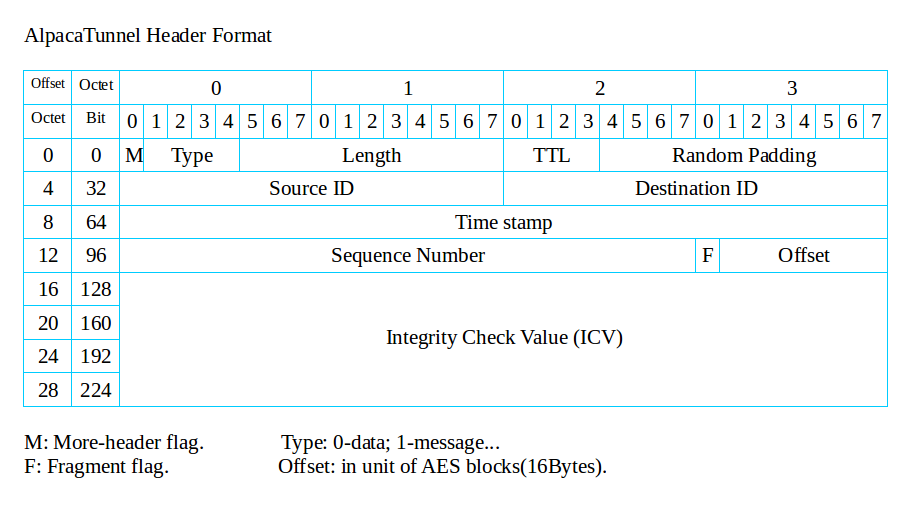
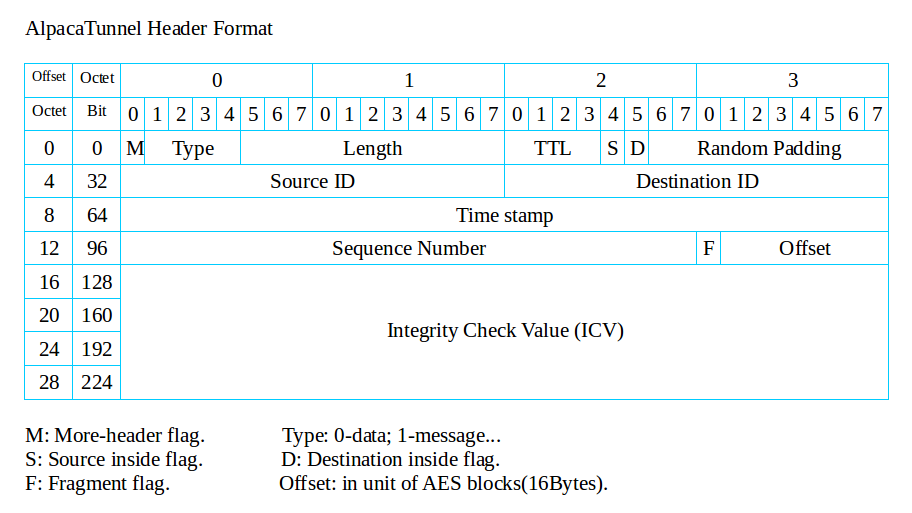
version 2.1.1, anti replay bug fix.... #LIGO!!

diff --git a/main.c b/main.c
@@ -36,7 +36,7 @@ typedef enum { false, true } bool;
 #define RELATIVE_PATH_TO_SECRETS "alpaca_tunnel.d/alpaca_secrets"
 #define PATH_LEN 1024
 #define PROCESS_NAME "AlpacaTunnel"
-#define VERSION "2.0"
+#define VERSION "2.1"
 
 #define TUN_NETMASK 0xFFFF0000
 //tunnel MTU must not be greater than 1440
@@ -65,8 +65,8 @@ typedef union
 struct ttl_flag_random_t
 {
     uint ttl:4;
-    uint src_flag:1;  //0: inside; 1: outside
-    uint dst_flag:1;  //0: inside; 1: outside
+    bool src_inside:1;
+    bool dst_inside:1;
     uint random:10;
 } __attribute__((packed));
 
@@ -155,6 +155,9 @@ struct tunnel_header_t
 //so max replay rate is REPLAY_CNT_LIMIT per RESET_STAT_INTERVAL
 #define RESET_STAT_INTERVAL 30
 #define REPLAY_CNT_LIMIT 10
+#define JUMP_CNT_LIMIT 3
+
+#define ALLOW_P2P true
 
 enum {error, debug, info} global_log_level = debug;
 
@@ -174,7 +177,11 @@ struct flow_profile_t
     uint32_t time_now;
     uint64_t dup_cnt;     //if packet is duplicate, cnt++
     uint64_t delay_cnt;   //if packet is within MAX_DELAY_TIME, cnt++
-    uint64_t replay_cnt;  //if packet time is beyond MAX_DELAY_TIME, cnt++
+    uint64_t replay_cnt;  //if packet is replay, cnt++
+    uint64_t jump_cnt;  //if packet time is faster, cnt++
+    uint32_t time_min;
+    uint32_t time_max;
+    //uint32_t sys_time;
     struct bit_array_t * ba_pre;
     struct bit_array_t * ba_now;
 };
@@ -188,7 +195,7 @@ struct peer_profile_t
     bool dup;   //when set, packet will be double sent.
     uint16_t srtt;
     struct flow_profile_t * flow_src;  //for flow that dst==0, src->0
-    struct flow_profile_t * flow_dst;  //for flow that src==0, 0->dst
+    //struct flow_profile_t * flow_dst;  //for flow that src==0, 0->dst
     byte psk[2*AES_TEXT_LEN];
     struct sockaddr_in *peeraddr;   //peer IP
     int port;   //peer port
@@ -233,7 +240,7 @@ uint16_t get_next_hop_id(uint32_t ip_dst, uint32_t ip_src);
 static int global_running = 0;
 static int global_sysroute_change = 0;
 static uint16_t global_self_id = 0;
-static int global_replay_cnt = 0;
+static int global_pkt_cnt = 0;
 
 //in network byte order.
 static struct if_info_t global_tunif;
@@ -257,6 +264,7 @@ int usage(char *pname)
 
 int main(int argc, char *argv[])
 {
+    srandom(time(NULL));
     init_route_spin();
     global_if_list = NULL;
     collect_if_info(&global_if_list);
@@ -706,8 +714,9 @@ struct peer_profile_t** init_peer(FILE *secrets_file)
         p1->rip = (global_tunif.addr & global_tunif.mask) | htonl(id); //in network byte order.
 
         p1->flow_src = (struct flow_profile_t *)malloc(sizeof(struct flow_profile_t));
-        p1->flow_dst = (struct flow_profile_t *)malloc(sizeof(struct flow_profile_t));
-        if(p1->flow_src == NULL || p1->flow_dst == NULL)
+        //p1->flow_dst = (struct flow_profile_t *)malloc(sizeof(struct flow_profile_t));
+        //if(p1->flow_src == NULL || p1->flow_dst == NULL)
+        if(p1->flow_src == NULL)
         {
             printlog(errno, "init_peer: malloc failed");
             free_peer(p2);
@@ -717,15 +726,15 @@ struct peer_profile_t** init_peer(FILE *secrets_file)
         else
         {
             bzero(p1->flow_src, sizeof(struct flow_profile_t));
-            bzero(p1->flow_dst, sizeof(struct flow_profile_t));
+            //bzero(p1->flow_dst, sizeof(struct flow_profile_t));
         }
 
         p1->flow_src->ba_pre = bit_array_create(SEQ_LEVEL_1);
         p1->flow_src->ba_now = bit_array_create(SEQ_LEVEL_1);
-        p1->flow_dst->ba_pre = bit_array_create(SEQ_LEVEL_1);
-        p1->flow_dst->ba_now = bit_array_create(SEQ_LEVEL_1);
-        if(p1->flow_src->ba_pre == NULL || p1->flow_src->ba_now == NULL
-            || p1->flow_dst->ba_pre == NULL || p1->flow_dst->ba_now == NULL)
+        //p1->flow_dst->ba_pre = bit_array_create(SEQ_LEVEL_1);
+        //p1->flow_dst->ba_now = bit_array_create(SEQ_LEVEL_1);
+        if(p1->flow_src->ba_pre == NULL || p1->flow_src->ba_now == NULL)
+        //    || p1->flow_dst->ba_pre == NULL || p1->flow_dst->ba_now == NULL)
         {
             printlog(errno, "init_peer: malloc failed");
             free_peer(p2);
@@ -734,8 +743,8 @@ struct peer_profile_t** init_peer(FILE *secrets_file)
         }
         bit_array_clearall(p1->flow_src->ba_pre);
         bit_array_clearall(p1->flow_src->ba_now);
-        bit_array_clearall(p1->flow_dst->ba_pre);
-        bit_array_clearall(p1->flow_dst->ba_now);
+        //bit_array_clearall(p1->flow_dst->ba_pre);
+        //bit_array_clearall(p1->flow_dst->ba_now);
 
         p2[id] = p1;
     }
@@ -787,12 +796,12 @@ int free_peer(struct peer_profile_t **p2)
                 bit_array_destroy(p1->flow_src->ba_now);
                 free(p1->flow_src);
             }
-            if(p1->flow_dst != NULL)
-            {
-                bit_array_destroy(p1->flow_dst->ba_pre);
-                bit_array_destroy(p1->flow_dst->ba_now);
-                free(p1->flow_dst);
-            }
+            //if(p1->flow_dst != NULL)
+            //{
+            //    bit_array_destroy(p1->flow_dst->ba_pre);
+            //    bit_array_destroy(p1->flow_dst->ba_now);
+            //    free(p1->flow_dst);
+            //}
             if(p1->peeraddr != NULL)
                 free(p1->peeraddr);
             free(p1);
@@ -958,30 +967,41 @@ void* reset_link_route(void *arg)
 void* server_reset_stat(void *arg)
 {
     struct peer_profile_t ** peer_table = (struct peer_profile_t **)arg;
-    int i;
     int peer_num = MAX_ID+1;
-    int pre = global_replay_cnt;
+    //int pre = global_pkt_cnt;
 
+    int i, j = 0;
     while(global_running)
     {
         sleep(RESET_STAT_INTERVAL);
-        if(pre != global_replay_cnt)
+        j++;
+        for(i = 0; i < peer_num; i++)
         {
-            for(i = 0; i < peer_num; i++)
+            struct peer_profile_t *p = peer_table[i];
+            if(p != NULL)
             {
-                struct peer_profile_t *p = peer_table[i];
-                if(p != NULL)
+                //if(pre != global_pkt_cnt)
+                if(true)
                 {
                     p->flow_src->dup_cnt = 0;
                     p->flow_src->delay_cnt = 0;
                     p->flow_src->replay_cnt = 0;
-                    p->flow_dst->dup_cnt = 0;
-                    p->flow_dst->delay_cnt = 0;
-                    p->flow_dst->replay_cnt = 0;
+                    //p->flow_src->sys_time = time(NULL);
+                    p->flow_src->time_min = 0;
+                    p->flow_src->time_max = 0;
+                    //p->flow_dst->dup_cnt = 0;
+                    //p->flow_dst->delay_cnt = 0;
+                    //p->flow_dst->replay_cnt = 0;
+                    //printlog(0, "status count reset!\n");
+                    //pre = global_pkt_cnt;
+                }
+                if(j%4 == 0 && p->flow_src->jump_cnt > 0)
+                {
+                    j++;
+                    p->flow_src->jump_cnt = 0;
+                    printlog(0, "jump status count reset!\n");
                 }
             }
-            printlog(0, "replay count reset!\n");
-            pre = global_replay_cnt;
         }
     }
     return NULL;
@@ -1004,7 +1024,6 @@ void* server_read(void *arg)
     byte buf_header[HEADER_LEN];
     byte * buf_psk;
     int i;
-    srandom(time(NULL));
     for(i=0; i<ETH_MTU; i++)   //set random padding data
         buf_send[i] = random();
     bzero(buf_load, TUN_MTU);
@@ -1057,26 +1076,26 @@ void* server_read(void *arg)
 
         if(src_inside)
         {
-            header_send.ttl_flag_random.bit.src_flag = 0;
+            header_send.ttl_flag_random.bit.src_inside = true;
             //now src_id == global_self_id; but in the future, src_id may be other peer's id.
             src_id = ntohl(ip_h.saddr);
             ip_snat(buf_load, peer_table[src_id]->vip);
         }
         else
         {
-            header_send.ttl_flag_random.bit.src_flag = 1;
+            header_send.ttl_flag_random.bit.src_inside = false;
             //src_id = 0;
         }
 
         if(dst_inside)
         {
-            header_send.ttl_flag_random.bit.dst_flag = 0;
+            header_send.ttl_flag_random.bit.dst_inside = true;
             dst_id = ntohl(ip_h.daddr);
             ip_dnat(buf_load, peer_table[dst_id]->vip);
         }
         else
         {
-            header_send.ttl_flag_random.bit.dst_flag = 1;
+            header_send.ttl_flag_random.bit.dst_inside = false;
             dst_id = next_id;
         }
         bigger_id = dst_id > src_id ? dst_id : src_id;
@@ -1226,6 +1245,9 @@ void* server_recv(void *arg)
         if(fs == -2)
             printlog(0, "tunif %s received packet from %d.%d to %d.%d: replay limit exceeded!\n", 
                 global_tunif.name, src_id/256, src_id%256, dst_id/256, dst_id%256);
+        if(fs == -3)
+            printlog(0, "tunif %s received packet from %d.%d to %d.%d: time jump limit exceeded!\n", 
+                global_tunif.name, src_id/256, src_id%256, dst_id/256, dst_id%256);
         if(fs < 0)
             continue;
 
@@ -1240,7 +1262,7 @@ void* server_recv(void *arg)
 
         //if(0 != src_id)
         //src_inside
-        if(header_recv.ttl_flag_random.bit.src_flag == 0)
+        if(header_recv.ttl_flag_random.bit.src_inside == true)
         {
             saddr = (global_tunif.addr & global_tunif.mask) | ip_h.saddr;
             ip_snat(buf_load, saddr);
@@ -1250,7 +1272,7 @@ void* server_recv(void *arg)
 
         //if(0 != dst_id)
         //dst_inside
-        if(header_recv.ttl_flag_random.bit.dst_flag == 0)
+        if(header_recv.ttl_flag_random.bit.dst_inside == true)
         {
             daddr = (global_tunif.addr & global_tunif.mask) | ip_h.daddr;
             ip_dnat(buf_load, daddr);
@@ -1289,27 +1311,36 @@ void* server_recv(void *arg)
                 continue;
             }
 
+            if(ALLOW_P2P != true)
+                if(header_recv.ttl_flag_random.bit.src_inside == true && header_recv.ttl_flag_random.bit.dst_inside == true)
+                {
+                    printlog(0, "tunif %s received packet from %d.%d to %d.%d: p2p not allowed!\n", 
+                        global_tunif.name, src_id/256, src_id%256, dst_id/256, dst_id%256);
+                    continue;
+                }
+
             //if(dst_id != 0)
             //    next_id = dst_id;
 
             if(NULL == peer_table[next_id])
             {
-                printlog(0, "tunif %s recv packet to peer %d.%d: invalid peer!\n", 
-                    global_tunif.name, next_id/256, next_id%256);
+                printlog(0, "tunif %s recv packet from %d.%d to %d.%d: route to invalid next peer: %d.%d!\n", 
+                    global_tunif.name, src_id/256, src_id%256, dst_id/256, dst_id%256, next_id/256, next_id%256);
                 continue;
             }
             if(NULL == peer_table[next_id]->peeraddr)
             {
-                printlog(0, "tunif %s recv packet to peer %d.%d: invalid addr!\n", 
-                    global_tunif.name, next_id/256, next_id%256);
+                printlog(0, "tunif %s recv packet from %d.%d to %d.%d: route to next peer %d.%d: invalid addr!\n", 
+                    global_tunif.name, src_id/256, src_id%256, dst_id/256, dst_id%256, next_id/256, next_id%256);
                 continue;
             }
 
             //split horizon
             //i don't want to compare port here, thus prevent two peers in the same NAT gw from seeing each other.
-            if(peeraddr->sin_addr.s_addr == peer_table[next_id]->peeraddr->sin_addr.s_addr)
+            if(peeraddr->sin_addr.s_addr == peer_table[next_id]->peeraddr->sin_addr.s_addr &&
+                peeraddr->sin_port == peer_table[next_id]->peeraddr->sin_port)
             {
-                printlog(0, "tunif %s recv packet from %d.%d to %d.%d, next_id is %d.%d: dst addr equals src addr!\n", 
+                printlog(0, "tunif %s recv packet from %d.%d to %d.%d: next peer is %d.%d, dst addr equals src addr!\n", 
                     global_tunif.name, src_id/256, src_id%256, dst_id/256, dst_id%256, next_id/256, next_id%256);
                 continue;
             }
@@ -1318,8 +1349,8 @@ void* server_recv(void *arg)
 
             ttl--;
             header_send.ttl_flag_random.bit.ttl = ttl;
-            header_send.ttl_flag_random.bit.src_flag = header_recv.ttl_flag_random.bit.src_flag;
-            header_send.ttl_flag_random.bit.dst_flag = header_recv.ttl_flag_random.bit.dst_flag;
+            header_send.ttl_flag_random.bit.src_inside = header_recv.ttl_flag_random.bit.src_inside;
+            header_send.ttl_flag_random.bit.dst_inside = header_recv.ttl_flag_random.bit.dst_inside;
             header_send.ttl_flag_random.bit.random = random();
             header_send.ttl_flag_random.u16 = htons(header_send.ttl_flag_random.u16);
 
@@ -1339,11 +1370,14 @@ void* server_recv(void *arg)
     return NULL;
 }
 
+//need to filter 2 elements:pkt_time and pkt_seq;
+//pkt_time can NOT run too fast, if faster than system, let's call it a jump. if too many jumps, then it may be an attack.
+//pkt_seq can NOT duplicate.
 int flow_filter(uint32_t pkt_time, uint32_t pkt_seq, uint16_t src_id, uint16_t dst_id, struct peer_profile_t ** peer_table)
 {
+    global_pkt_cnt++;
     struct flow_profile_t * fp = NULL;
 
-    //only need to protect smaller id, so there is no need of peer_table[dst_id]->flow_dst
     if(src_id == dst_id || 0 == src_id)
         return -1;
     else if(NULL == peer_table[src_id])
@@ -1353,6 +1387,25 @@ int flow_filter(uint32_t pkt_time, uint32_t pkt_seq, uint16_t src_id, uint16_t d
 
     if(fp == NULL)
         return -1;
+
+    if(fp->time_min == 0)
+        fp->time_min = pkt_time;
+    else
+        fp->time_min = pkt_time < fp->time_min ? pkt_time : fp->time_min;
+    if(fp->time_max == 0)
+        fp->time_max = pkt_time;
+    else
+        fp->time_max = pkt_time > fp->time_max ? pkt_time : fp->time_max;
+    if( (fp->time_max - fp->time_min) > (RESET_STAT_INTERVAL + MAX_DELAY_TIME) )
+    {
+        fp->jump_cnt++;
+        fp->time_max = 0;
+        fp->time_min = 0;
+        if(fp->jump_cnt == JUMP_CNT_LIMIT)
+            return -3;
+    }
+    if(fp->jump_cnt >= JUMP_CNT_LIMIT)
+        return -4;
 
     int time_diff = pkt_time - fp->time_now;
     if(time_diff >= 2)
@@ -1401,7 +1454,7 @@ int flow_filter(uint32_t pkt_time, uint32_t pkt_seq, uint16_t src_id, uint16_t d
     else if(time_diff <= -MAX_DELAY_TIME) //why? let's assume max packet delay is MAX_DELAY_TIME seconds.
     {
         fp->replay_cnt++;
-        global_replay_cnt++;
+        //global_pkt_cnt++;
         if(fp->replay_cnt == REPLAY_CNT_LIMIT)  //if replay_cnt is beyond REPLAY_CNT_LIMIT, drop replay packets.
             return -2;
         if(fp->replay_cnt > REPLAY_CNT_LIMIT)

diff --git a/README.md b/README.md
@@ -85,3 +85,4 @@ alpaca tunnel.
 
 
 
+
